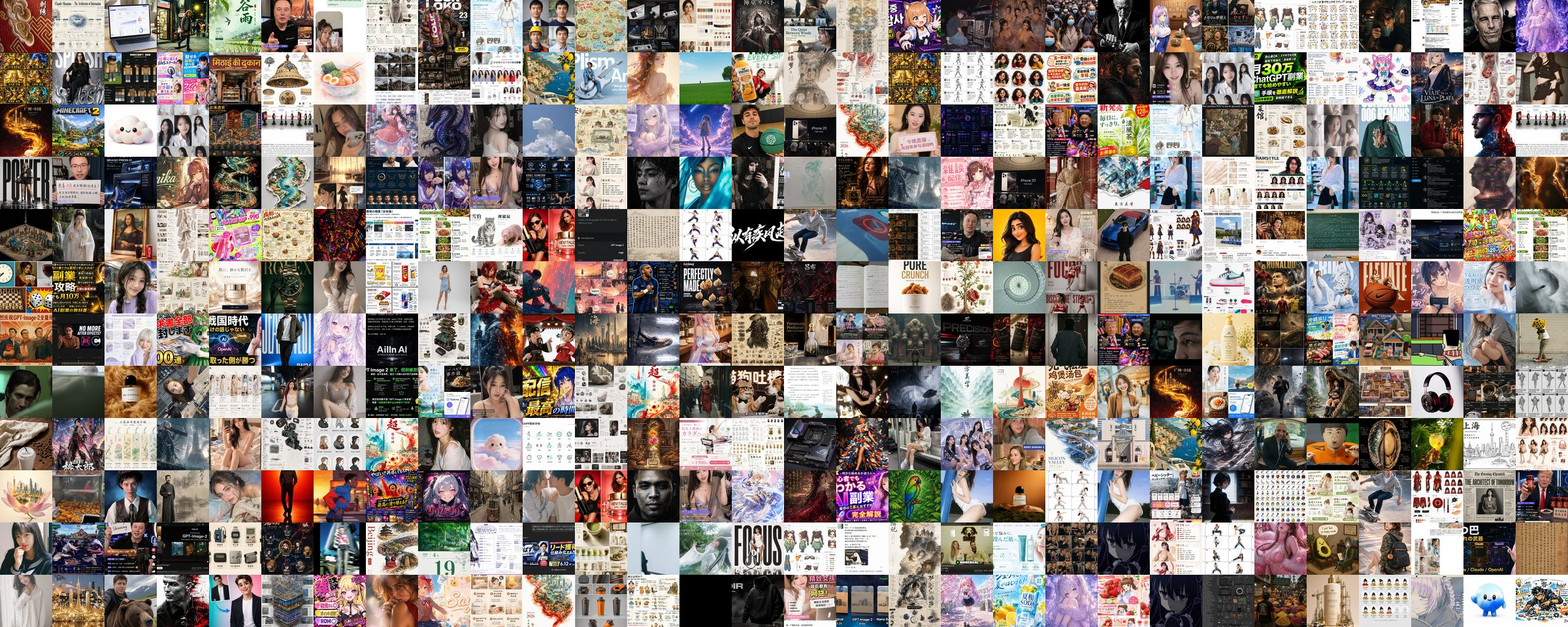
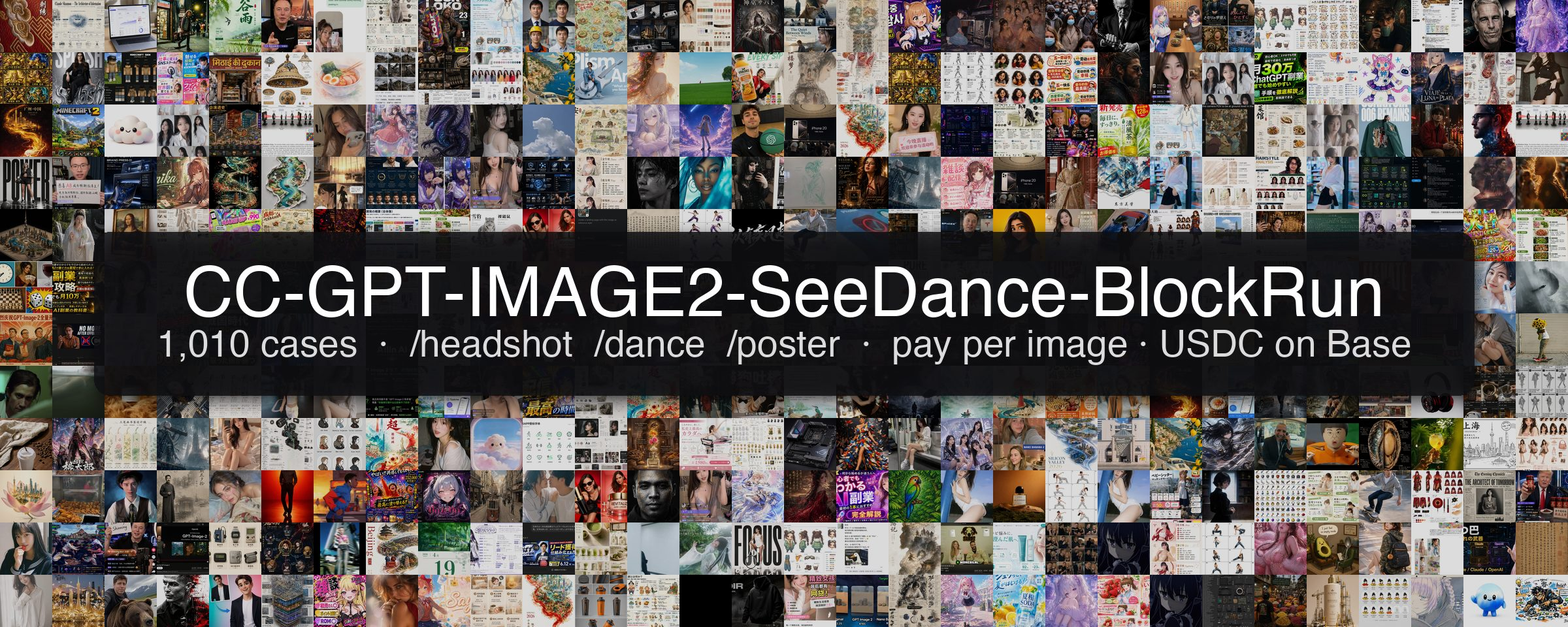
Cover: overlay brand name + tagline on the mosaic
Per Your Majesty: regenerate the cover so the brand 'CC-GPT-IMAGE2-SeeDance-BlockRun'
appears in every screenshot.

build_cover.py now:

- Adds --brand and --tagline CLI flags (defaults to the project brand and
  '1,010 cases · /headshot /dance /poster · pay per image · USDC on Base').
- After tiling, composites a centered semi-opaque dark rounded panel
  with the brand title (auto-fit large bold) and the tagline (regular
  weight) on top of the mosaic. Subtle 35-alpha global darken so text
  contrast holds against any tile color, plus a soft Gaussian-blurred
  drop shadow under the panel for depth.
- Auto-fits font size to the canvas by trying a list of sizes and
  picking the largest that fits 78% width for the title (85% for the
  tagline). Searches macOS + Linux system fonts (Helvetica, DejaVu
  Sans Bold, Liberation, FreeSans) — falls back to PIL default if
  none found.

Result: examples/cover.jpg is now 2400×960, ~615 KB, with the project
name visible no matter how the cover is cropped or screenshotted.
Pass --brand '' to suppress the overlay if you want a plain mosaic.

diff --git a/scripts/build_cover.py b/scripts/build_cover.py
@@ -31,7 +31,7 @@ import urllib.request
 from pathlib import Path
 
 try:
-    from PIL import Image, ImageOps  # noqa: F401
+    from PIL import Image, ImageOps, ImageDraw, ImageFont, ImageFilter  # noqa: F401
 except ImportError:
     print("ERROR: Pillow not installed. Run: pip install Pillow", file=sys.stderr)
     sys.exit(2)
@@ -164,6 +164,131 @@ def download_all(urls: list[str], cache_dir: Path, workers: int = 16) -> dict[st
     return results
 
 
+def _find_font(candidates: list[str], size: int) -> ImageFont.FreeTypeFont:
+    """Try the candidate font paths in order; fall back to PIL default."""
+    for path in candidates:
+        if Path(path).exists():
+            try:
+                return ImageFont.truetype(path, size)
+            except Exception:  # noqa: BLE001
+                continue
+    return ImageFont.load_default()
+
+
+BOLD_FONTS = [
+    # macOS
+    "/System/Library/Fonts/Helvetica.ttc",
+    "/System/Library/Fonts/HelveticaNeue.ttc",
+    "/System/Library/Fonts/Supplemental/Arial Bold.ttf",
+    "/Library/Fonts/Arial Bold.ttf",
+    # Linux (common Ubuntu/Debian)
+    "/usr/share/fonts/truetype/dejavu/DejaVuSans-Bold.ttf",
+    "/usr/share/fonts/truetype/liberation/LiberationSans-Bold.ttf",
+    "/usr/share/fonts/truetype/freefont/FreeSansBold.ttf",
+]
+REG_FONTS = [
+    "/System/Library/Fonts/Helvetica.ttc",
+    "/System/Library/Fonts/HelveticaNeue.ttc",
+    "/usr/share/fonts/truetype/dejavu/DejaVuSans.ttf",
+    "/usr/share/fonts/truetype/liberation/LiberationSans-Regular.ttf",
+    "/usr/share/fonts/truetype/freefont/FreeSans.ttf",
+]
+
+
+def _measure(draw: ImageDraw.ImageDraw, text: str, font: ImageFont.FreeTypeFont) -> tuple[int, int]:
+    bb = draw.textbbox((0, 0), text, font=font)
+    return bb[2] - bb[0], bb[3] - bb[1]
+
+
+def _fit_font(
+    draw: ImageDraw.ImageDraw,
+    text: str,
+    font_paths: list[str],
+    sizes: list[int],
+    max_width: int,
+) -> tuple[ImageFont.FreeTypeFont, int, int]:
+    """Pick the largest size from `sizes` whose rendered width fits max_width.
+    Falls back to the smallest if none fit."""
+    last = None
+    for s in sizes:
+        font = _find_font(font_paths, s)
+        w, h = _measure(draw, text, font)
+        last = (font, w, h)
+        if w <= max_width:
+            return font, w, h
+    return last  # type: ignore[return-value]
+
+
+def add_brand_overlay(
+    canvas: Image.Image,
+    brand: str,
+    tagline: str,
+) -> Image.Image:
+    """Composite a centered dark rounded panel with brand title + tagline
+    over the mosaic. Designed so a screenshot of any region of the cover
+    still includes the brand name."""
+    W, H = canvas.size
+
+    # Apply a subtle global darken so text contrast holds even on light tiles.
+    darken = Image.new("RGBA", (W, H), (0, 0, 0, 35))
+    base = Image.alpha_composite(canvas.convert("RGBA"), darken)
+
+    overlay = Image.new("RGBA", (W, H), (0, 0, 0, 0))
+    draw = ImageDraw.Draw(overlay)
+
+    # Pick font sizes that scale with canvas height
+    title_sizes = [int(H * f) for f in (0.16, 0.13, 0.11, 0.09, 0.075, 0.06)]
+    sub_sizes = [int(H * f) for f in (0.06, 0.05, 0.04, 0.035, 0.03)]
+
+    title_font, tw, th = _fit_font(draw, brand, BOLD_FONTS, title_sizes, int(W * 0.78))
+    sub_font, sw, sh = _fit_font(draw, tagline, REG_FONTS, sub_sizes, int(W * 0.85))
+
+    gap = int(H * 0.02)
+    pad_x = int(W * 0.04)
+    pad_y = int(H * 0.05)
+
+    block_w = max(tw, sw) + 2 * pad_x
+    block_h = th + sh + gap + 2 * pad_y
+
+    cx = W // 2
+    cy = H // 2
+    rect_left = cx - block_w // 2
+    rect_top = cy - block_h // 2
+    rect_right = cx + block_w // 2
+    rect_bottom = cy + block_h // 2
+
+    # Soft drop shadow for the panel
+    shadow = Image.new("RGBA", (W, H), (0, 0, 0, 0))
+    sdraw = ImageDraw.Draw(shadow)
+    sdraw.rounded_rectangle(
+        (rect_left + 6, rect_top + 8, rect_right + 6, rect_bottom + 8),
+        radius=int(min(W, H) * 0.025),
+        fill=(0, 0, 0, 180),
+    )
+    shadow = shadow.filter(ImageFilter.GaussianBlur(radius=12))
+
+    # Foreground panel — semi-opaque dark, lets some mosaic show through
+    panel = Image.new("RGBA", (W, H), (0, 0, 0, 0))
+    pdraw = ImageDraw.Draw(panel)
+    pdraw.rounded_rectangle(
+        (rect_left, rect_top, rect_right, rect_bottom),
+        radius=int(min(W, H) * 0.025),
+        fill=(15, 15, 18, 215),
+    )
+
+    # Draw title + tagline
+    title_x = cx - tw // 2
+    title_y = rect_top + pad_y
+    sub_x = cx - sw // 2
+    sub_y = title_y + th + gap
+    pdraw.text((title_x, title_y), brand, font=title_font, fill=(255, 255, 255, 255))
+    pdraw.text((sub_x, sub_y), tagline, font=sub_font, fill=(220, 220, 220, 255))
+
+    composed = Image.alpha_composite(base, shadow)
+    composed = Image.alpha_composite(composed, panel)
+    return composed.convert("RGB")
+
+
 def build_mosaic(
     urls: list[str],
     cache: dict[str, Path],
@@ -233,6 +358,16 @@ def main() -> int:
     p.add_argument("--seed", type=int, default=42)
     p.add_argument("--quality", type=int, default=82)
     p.add_argument("--workers", type=int, default=16)
+    p.add_argument(
+        "--brand",
+        default="CC-GPT-IMAGE2-SeeDance-BlockRun",
+        help="Title overlaid on the cover. Pass empty string to skip overlay.",
+    )
+    p.add_argument(
+        "--tagline",
+        default="1,010 cases  ·  /headshot  /dance  /poster  ·  pay per image · USDC on Base",
+        help="Subtitle overlaid below the brand.",
+    )
     args = p.parse_args()
 
     case_root = Path(args.case_root).resolve()
@@ -274,6 +409,11 @@ def main() -> int:
     mosaic = build_mosaic(
         download_pool, cache, args.cols, args.rows, args.cell, args.shuffle, args.seed
     )
+
+    if args.brand:
+        print()
+        print(f"==> overlaying brand: {args.brand!r}")
+        mosaic = add_brand_overlay(mosaic, args.brand, args.tagline)
 
     print()
     print("==> saving")
